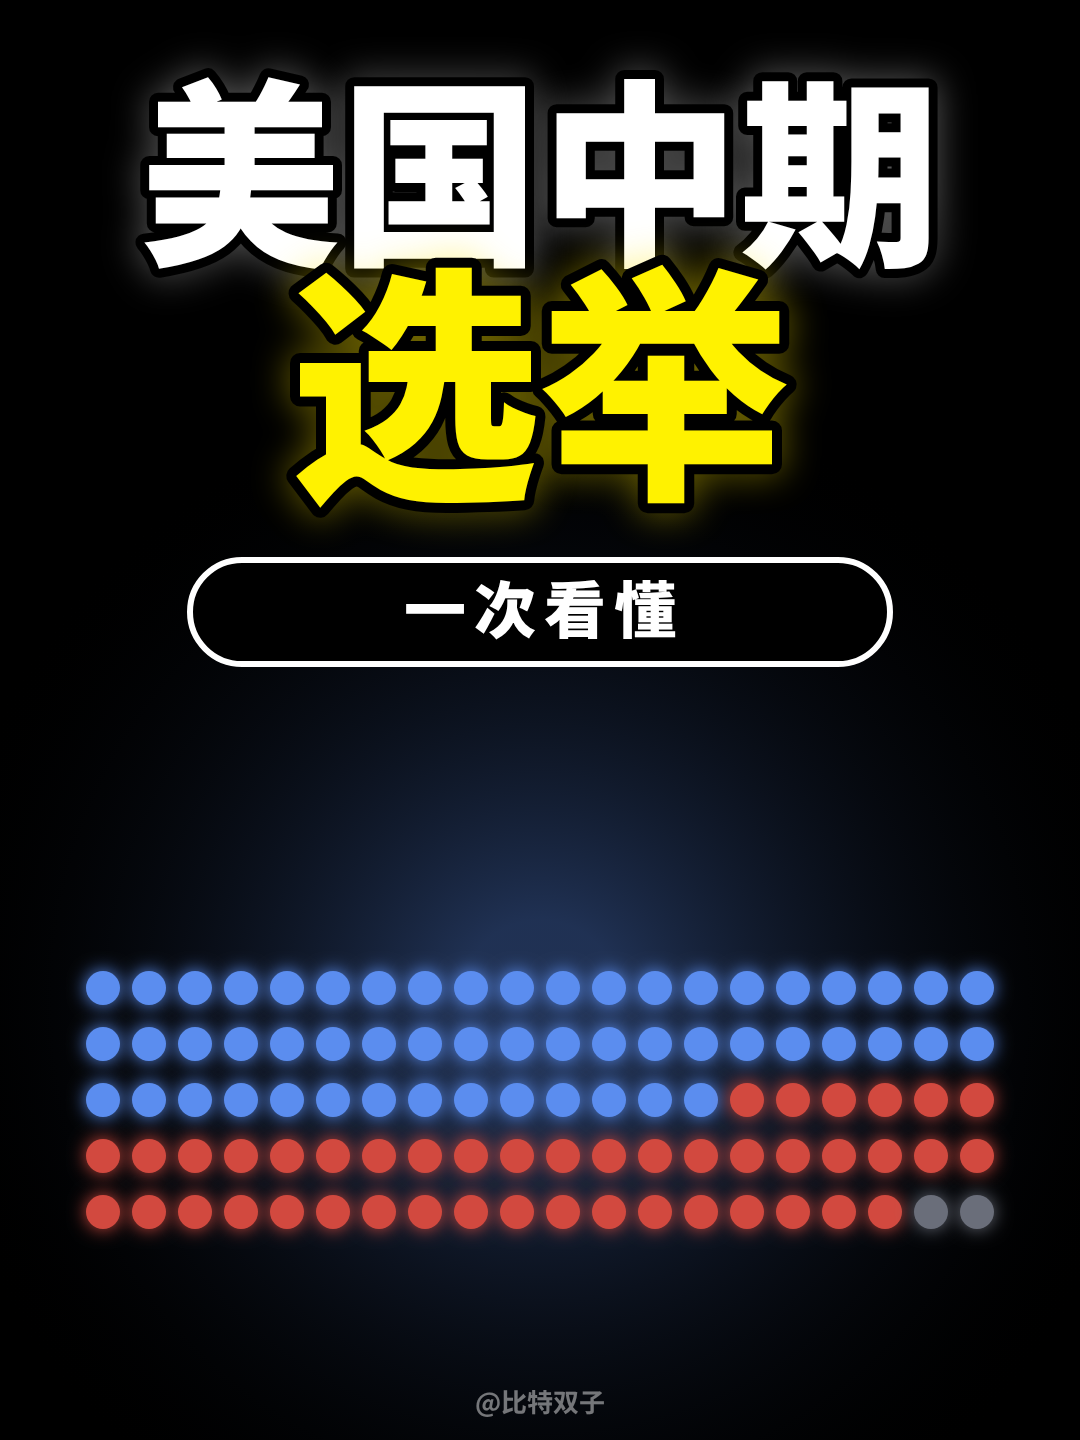
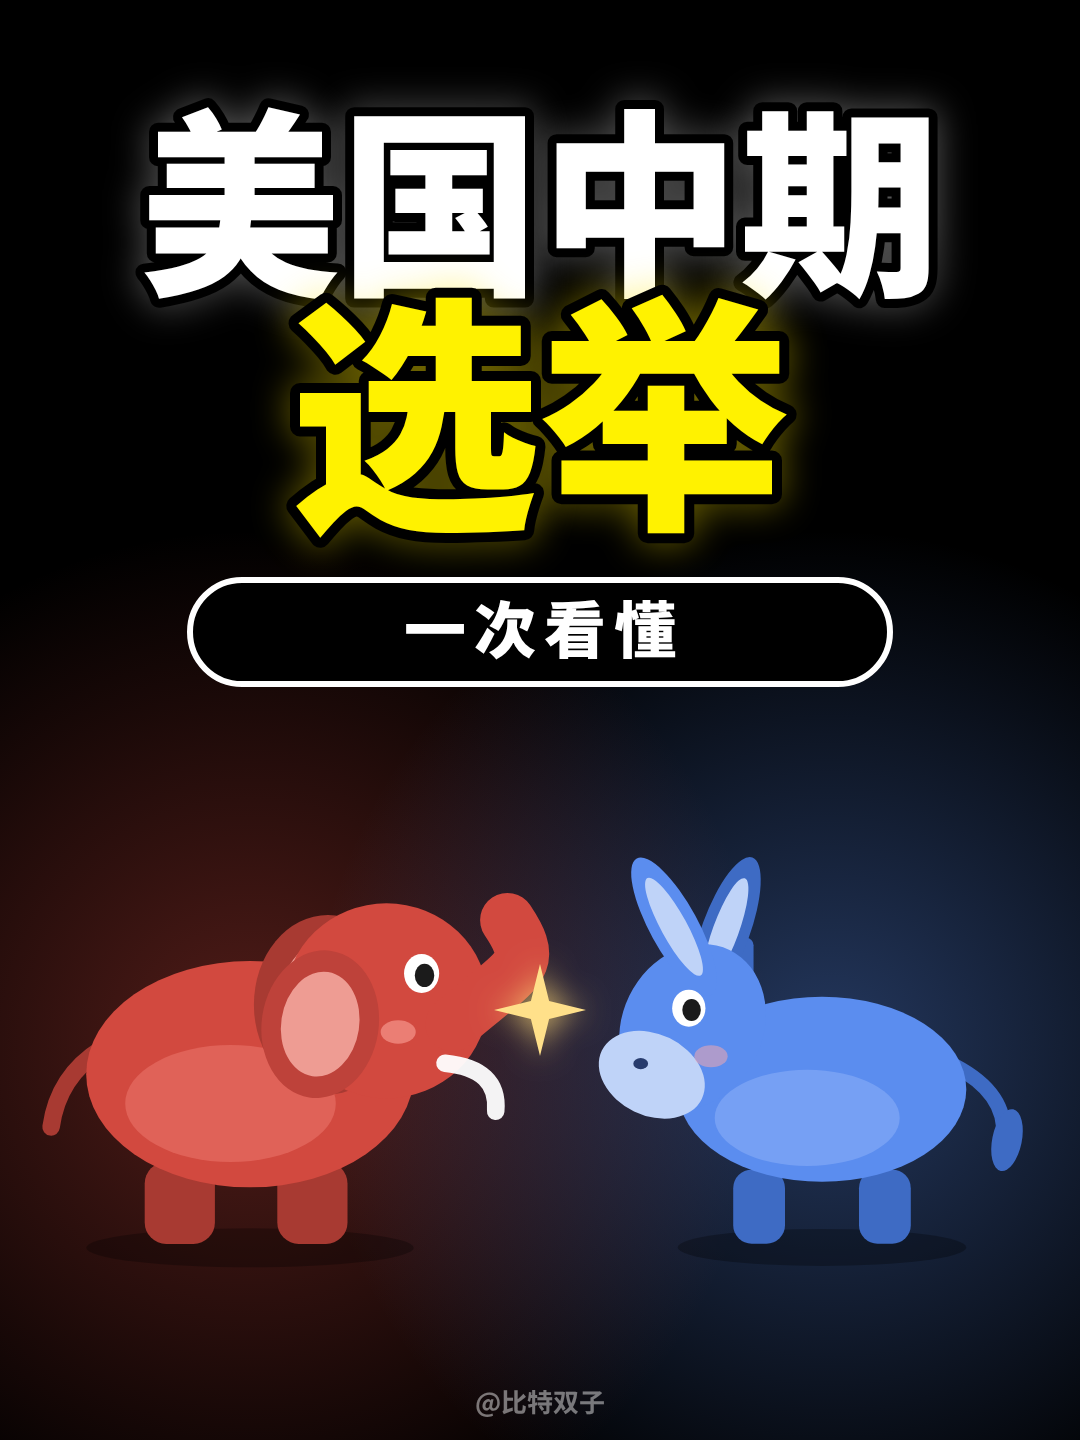
Covers: the Republican elephant and the Democratic donkey facing each other (3:4 and 4:3)
Claude-Session: https://claude.ai/code/session_01Vdfstbm8vk7tRiFVvd8ncG

diff --git a/projects/us_midterms_90s/src/cover.html b/projects/us_midterms_90s/src/cover.html
@@ -5,37 +5,112 @@
 <style>html,body{margin:0;background:#000}canvas{display:block}</style></head>
 <body><canvas id="c" width="1080" height="1440"></canvas>
 <script>
-// 3:4 cover (1080x1440): black ground, white + yellow heavy title, pill subtitle, and the 100-seat Senate dot grid from the video.
+// Covers: 3:4 (1080x1440) and 4:3 (#43, 1440x1080). Black ground, white + yellow heavy title, a pill subtitle,
+// and the Republican elephant (red) and the Democratic donkey (blue) facing each other.
 const WIDE = location.hash === '#43';
 const W = WIDE ? 1440 : 1080, H = WIDE ? 1080 : 1440, cv = document.getElementById('c'); cv.width = W; cv.height = H;
 const ctx = cv.getContext('2d'), SANS = '"Noto Sans SC"';
-// layout: title lines [x, y, size], text alignment, pill [x, y, w, h, font], watermark, dot grid (cols, spacing, centre)
-const L = WIDE
-  ? { t1: [80, 300, 150], t2: [80, 540, 200], align: 'left', pill: [80, 620, 520, 100, 54], wm: [80, 1040], cols: 10, sp: 64, cx: 1060, cy: 490 }
-  : { t1: [540, 250, 200], t2: [540, 480, 250], align: 'center', pill: [190, 560, 700, 104, 62], wm: [540, 1412], cols: 20, sp: 46, cx: 540, cy: 1000 };
-function outlined(str, x, y, size, fill, stroke, lw, glow) {
-  ctx.save(); ctx.font = `900 ${size}px ${SANS}`; ctx.textAlign = L.align; ctx.lineJoin = 'round';
+const rgb = (c, a = 1) => `rgba(${Math.round(c[0])},${Math.round(c[1])},${Math.round(c[2])},${a})`;
+const EL = [210, 73, 63], ELD = [168, 58, 50], ELI = [238, 156, 147], DK = [91, 141, 239], DKD = [62, 107, 196], DKI = [191, 211, 248];
+function ell(x, y, rx, ry, rot, col) { ctx.fillStyle = rgb(col); ctx.beginPath(); ctx.ellipse(x, y, rx, ry, rot || 0, 0, 6.283); ctx.fill(); }
+function face(ex, ey, mood, t, s = 1) {          // an eye (+ brow / tear) at (ex, ey)
+  ctx.save(); ctx.translate(ex, ey); ctx.scale(s, s);
+  if (mood > 0) { ctx.strokeStyle = '#1b1b1b'; ctx.lineWidth = 5; ctx.lineCap = 'round'; ctx.beginPath(); ctx.arc(0, 4, 8, Math.PI * 1.1, Math.PI * 1.9); ctx.stroke(); }
+  else {
+    const bl = (Math.sin(t * 2.3 + ex) > 0.96) ? 0.15 : 1;
+    ctx.fillStyle = '#fff'; ctx.beginPath(); ctx.ellipse(0, 0, 9, 10 * bl, 0, 0, 6.283); ctx.fill();
+    ctx.fillStyle = '#1b1b1b'; ctx.beginPath(); ctx.ellipse(1.5, 1, 5, 6 * bl, 0, 0, 6.283); ctx.fill();
+    if (mood < 0) { ctx.strokeStyle = '#1b1b1b'; ctx.lineWidth = 5; ctx.lineCap = 'round'; ctx.beginPath(); ctx.moveTo(-12, -18); ctx.lineTo(10, -10); ctx.stroke(); ctx.fillStyle = 'rgba(120,190,255,0.9)'; ctx.beginPath(); ctx.ellipse(4, 22 + 4 * Math.sin(t * 5), 4, 7, 0, 0, 6.283); ctx.fill(); }
+  }
+  ctx.restore();
+}
+function elephant(x, y, s = 1, o = {}) {
+  const { mood = 0, flip = false, t = 0, trunk = 0, a = 1, walk = 0, hop = 0 } = o;
+  const bob = 4 * Math.sin(t * 3.2) - hop;
+  ctx.save(); ctx.globalAlpha *= a; ctx.translate(x, y + bob * 0); ctx.scale(flip ? -s : s, s);
+  ctx.fillStyle = 'rgba(0,0,0,0.28)'; ctx.beginPath(); ctx.ellipse(0, 4, 84, 10, 0, 0, 6.283); ctx.fill();
+  ctx.translate(0, -hop);
+  const sw = walk * 7 * Math.sin(t * 9);
+  [[-54, sw], [14, -sw]].forEach(([lx, d]) => { ctx.fillStyle = rgb(ELD); ctx.beginPath(); ctx.roundRect(lx + d, -40, 36, 42, 11); ctx.fill(); });
+  ctx.strokeStyle = rgb(ELD); ctx.lineWidth = 9; ctx.lineCap = 'round'; ctx.beginPath(); ctx.moveTo(-76, -98); ctx.quadraticCurveTo(-104 + 6 * Math.sin(t * 4), -84, -102, -58); ctx.stroke();
+  ell(0, -86 + bob * 0.3, 84, 58, 0, EL);
+  ell(-10, -70, 54, 30, 0, [224, 98, 88]);
+  ell(40, -122 + bob * 0.4, 38, 46, 0, ELD); ell(40, -122 + bob * 0.4, 25, 33, 0, ELI);     // far ear
+  ell(70, -124 + bob * 0.4, 52, 50, 0, EL);                                                      // head
+  const tr = trunk;                                                                                  // trunk: 0 hanging, 1 raised
+  ctx.strokeStyle = rgb(EL); ctx.lineWidth = 28; ctx.lineCap = 'round'; ctx.beginPath(); ctx.moveTo(104, -112 + bob * 0.4);
+  ctx.bezierCurveTo(138, -100 - 40 * tr, 138 + 10 * tr, -50 - 90 * tr, 112 + 20 * tr, -34 - 130 * tr); ctx.stroke();
+  ctx.strokeStyle = 'rgba(255,255,255,0.95)'; ctx.lineWidth = 9; ctx.beginPath(); ctx.moveTo(100, -92 + bob * 0.4); ctx.quadraticCurveTo(128, -88, 126, -66); ctx.stroke();   // tusk
+  ell(36, -112 + bob * 0.4, 30, 38, 0.15, [190, 66, 58]); ell(36, -112 + bob * 0.4, 20, 27, 0.15, ELI);                                                                 // near ear
+  face(88, -138 + bob * 0.4, mood, t);
+  if (mood >= 0) { ctx.fillStyle = 'rgba(255,170,160,0.55)'; ctx.beginPath(); ctx.ellipse(76, -108 + bob * 0.4, 9, 6, 0, 0, 6.283); ctx.fill(); }
+  ctx.restore();
+}
+function donkey(x, y, s = 1, o = {}) {
+  const { mood = 0, flip = false, t = 0, a = 1, walk = 0, hop = 0 } = o;
+  const bob = 4 * Math.sin(t * 3.4 + 1);
+  ctx.save(); ctx.globalAlpha *= a; ctx.translate(x, y); ctx.scale(flip ? -s : s, s);
+  ctx.fillStyle = 'rgba(0,0,0,0.28)'; ctx.beginPath(); ctx.ellipse(0, 4, 78, 10, 0, 0, 6.283); ctx.fill();
+  ctx.translate(0, -hop);
+  const sw = walk * 7 * Math.sin(t * 9);
+  [[-48, -sw], [20, sw]].forEach(([lx, d]) => { ctx.fillStyle = rgb(DKD); ctx.beginPath(); ctx.roundRect(lx + d, -38, 28, 40, 10); ctx.fill(); });
+  ctx.strokeStyle = rgb(DKD); ctx.lineWidth = 8; ctx.lineCap = 'round'; ctx.beginPath(); ctx.moveTo(72, -94); ctx.quadraticCurveTo(100, -84 + 8 * Math.sin(t * 5), 98, -56); ctx.stroke();
+  ell(100, -54, 8, 17, 0.2, DKD);
+  ell(0, -82 + bob * 0.3, 78, 50, 0, DK);
+  ell(-8, -66, 50, 26, 0, [118, 160, 244]);
+  ctx.fillStyle = rgb(DKD); [[-58, -150], [-50, -158], [-42, -164]].forEach(([mx, my]) => { ctx.beginPath(); ctx.roundRect(mx - 5, my + bob * 0.4, 10, 26, 4); ctx.fill(); });   // mane
+  ell(-52, -168 + bob * 0.4, 13, 42, 0.35, DKD); ell(-52, -168 + bob * 0.4, 7, 30, 0.35, DKI);     // far ear
+  ell(-70, -116 + bob * 0.4, 38, 46, 0.45, DK);                                                         // head
+  ell(-92, -90 + bob * 0.4, 30, 22, 0.45, DKI);                                                         // muzzle
+  ell(-98, -96 + bob * 0.4, 4, 3, 0, [40, 60, 110]);
+  ell(-80, -170 + bob * 0.4, 13, 42, -0.5, DK); ell(-80, -170 + bob * 0.4, 7, 30, -0.5, DKI);       // near ear
+  face(-72, -126 + bob * 0.4, mood, t);
+  if (mood >= 0) { ctx.fillStyle = 'rgba(255,170,170,0.5)'; ctx.beginPath(); ctx.ellipse(-60, -100 + bob * 0.4, 9, 6, 0, 0, 6.283); ctx.fill(); }
+  ctx.restore();
+}
+
+
+// =====================================================================
+//  Cartoon scenes: the Republican elephant (red) and the Democratic donkey (blue) act the story out.
+// =====================================================================
+function outlined(str, x, y, size, fill, stroke, lw, glow, align = 'center') {
+  ctx.save(); ctx.font = `900 ${size}px ${SANS}`; ctx.textAlign = align; ctx.lineJoin = 'round';
   if (glow) { ctx.shadowColor = glow; ctx.shadowBlur = 36; }
   ctx.lineWidth = lw; ctx.strokeStyle = stroke; ctx.strokeText(str, x, y); ctx.shadowBlur = 0; ctx.fillStyle = fill; ctx.fillText(str, x, y); ctx.restore();
 }
 function rr(x, y, w, h, r) { ctx.beginPath(); ctx.moveTo(x + r, y); ctx.arcTo(x + w, y, x + w, y + h, r); ctx.arcTo(x + w, y + h, x, y + h, r); ctx.arcTo(x, y + h, x, y, r); ctx.arcTo(x, y, x + w, y, r); ctx.closePath(); }
+function glow(x, y, r, col, a) { const g = ctx.createRadialGradient(x, y, 20, x, y, r); g.addColorStop(0, rgb(col, a)); g.addColorStop(1, rgb(col, 0)); ctx.fillStyle = g; ctx.fillRect(x - r, y - r, 2 * r, 2 * r); }
+function pill(cx, y, w, h, font, str) {
+  ctx.save(); rr(cx - w / 2, y, w, h, h / 2); ctx.fillStyle = '#000'; ctx.fill(); ctx.strokeStyle = '#fff'; ctx.lineWidth = 6; ctx.stroke(); ctx.restore();
+  ctx.save(); ctx.font = `900 ${font}px ${SANS}`; ctx.letterSpacing = '8px'; ctx.fillStyle = '#fff'; ctx.textAlign = 'center'; ctx.fillText(str, cx + 4, y + h * 0.7); ctx.restore();
+}
+function spark(x, y, r) {                                       // a small gold star between the two animals
+  ctx.save(); ctx.shadowColor = 'rgba(255,220,120,0.9)'; ctx.shadowBlur = 30; ctx.fillStyle = '#FFE08A'; ctx.beginPath();
+  for (let i = 0; i < 8; i++) { const rad = i % 2 ? r * 0.28 : r, an = i / 8 * 6.283 - Math.PI / 2; ctx.lineTo(x + Math.cos(an) * rad, y + Math.sin(an) * rad); } ctx.closePath(); ctx.fill(); ctx.restore();
+}
 function draw() {
   ctx.fillStyle = '#000'; ctx.fillRect(0, 0, W, H);
-  const g = ctx.createRadialGradient(L.cx, L.cy, 80, L.cx, L.cy, 620);
-  g.addColorStop(0, 'rgba(91,141,239,0.35)'); g.addColorStop(1, 'rgba(0,0,0,0)'); ctx.fillStyle = g; ctx.fillRect(0, 0, W, H);
-  outlined('美国中期', L.t1[0], L.t1[1], L.t1[2], '#ffffff', '#000', 18, 'rgba(255,255,255,0.35)');
-  outlined('选举', L.t2[0], L.t2[1], L.t2[2], '#fff200', '#000', 20, 'rgba(255,230,0,0.45)');
-  const [px, py, pw, ph, pf] = L.pill;
-  ctx.save(); rr(px, py, pw, ph, ph / 2); ctx.fillStyle = '#000'; ctx.fill(); ctx.strokeStyle = '#fff'; ctx.lineWidth = 6; ctx.stroke(); ctx.restore();
-  ctx.save(); ctx.font = `900 ${pf}px ${SANS}`; ctx.letterSpacing = '8px'; ctx.fillStyle = '#fff'; ctx.textAlign = 'center'; ctx.fillText('一次看懂', px + pw / 2 + 4, py + ph * 0.7); ctx.restore();
-  // 100 Senate seats: 54 D, 44 R, 2 undecided (same dot grid as the video)
-  const rows = 100 / L.cols;
-  for (let i = 0; i < 100; i++) {
-    const x = L.cx + (i % L.cols - (L.cols - 1) / 2) * L.sp, y = L.cy + (Math.floor(i / L.cols) - (rows - 1) / 2) * (WIDE ? L.sp : 56) + (WIDE ? 0 : 100);
-    const col = i < 54 ? '#5B8DEF' : i < 98 ? '#D2493F' : '#6A6E7A';
-    ctx.save(); ctx.shadowColor = col; ctx.shadowBlur = 18; ctx.fillStyle = col; ctx.beginPath(); ctx.arc(x, y, WIDE ? 20 : 17, 0, 6.283); ctx.fill(); ctx.restore();
+  if (!WIDE) {
+    glow(250, 1050, 520, EL, 0.38); glow(830, 1050, 520, DK, 0.38);
+    outlined('美国中期', 540, 280, 200, '#ffffff', '#000', 18, 'rgba(255,255,255,0.35)');
+    outlined('选举', 540, 510, 250, '#fff200', '#000', 20, 'rgba(255,230,0,0.45)');
+    pill(540, 580, 700, 104, 62, '一次看懂');
+    elephant(250, 1240, 1.95, { t: 0.3, trunk: 1, mood: 0 });
+    donkey(822, 1240, 1.85, { t: 0.5, mood: 0 });
+    spark(540, 1010, 46);
+    ctx.save(); ctx.font = `700 26px ${SANS}`; ctx.fillStyle = 'rgba(255,255,255,0.45)'; ctx.textAlign = 'center'; ctx.fillText('@比特双子', 540, 1412); ctx.restore();
+  } else {
+    glow(300, 760, 520, EL, 0.38); glow(1140, 760, 520, DK, 0.38);
+    ctx.font = `900 170px ${SANS}`; const w1 = ctx.measureText('美国中期').width; ctx.font = `900 210px ${SANS}`; const w2 = ctx.measureText('选举').width;
+    const x0 = (W - (w1 + w2 + 20)) / 2;
+    outlined('美国中期', x0, 270, 170, '#ffffff', '#000', 18, 'rgba(255,255,255,0.35)', 'left');
+    outlined('选举', x0 + w1 + 20, 270, 210, '#fff200', '#000', 20, 'rgba(255,230,0,0.45)', 'left');
+    elephant(235, 990, 1.95, { t: 0.3, trunk: 1, mood: 0 });
+    donkey(1170, 990, 1.9, { t: 0.5, mood: 0 });
+    spark(W / 2, 640, 40);
+    pill(W / 2, 700, 300, 92, 48, '一次看懂');
+    ctx.save(); ctx.font = `700 26px ${SANS}`; ctx.fillStyle = 'rgba(255,255,255,0.45)'; ctx.textAlign = 'center'; ctx.fillText('@比特双子', W / 2, 1050); ctx.restore();
   }
-  ctx.save(); ctx.font = `700 26px ${SANS}`; ctx.fillStyle = 'rgba(255,255,255,0.45)'; ctx.textAlign = L.align; ctx.fillText('@比特双子', L.wm[0], L.wm[1]); ctx.restore();
 }
 window.ready = (async () => {
   const sample = '美国中期选举一次看懂@比特双子';
